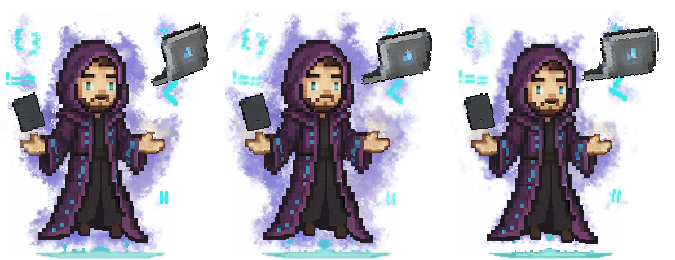
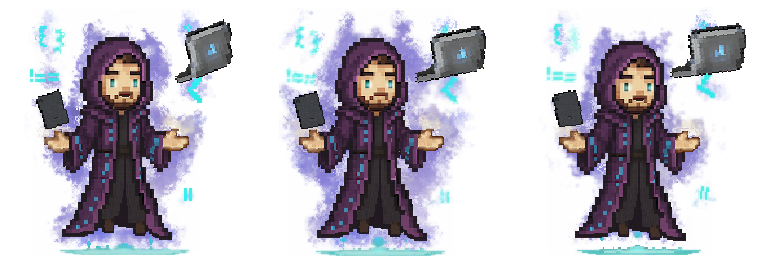
sprite sizes made consistent

diff --git a/src/components/common/PixelHero.jsx b/src/components/common/PixelHero.jsx
@@ -115,11 +115,11 @@ function PixelHero({ setIsFlipped, isFlipped, theme }) {
 
   // Sprite dimensions per level (width is single frame, height is total)
   const spriteSizes = {
-    1: { width: 64, height: 100 },
-    2: { width: 64, height: 100 },
-    3: { width: 80, height: 100 },
-    4: { width: 80, height: 100 },
-    5: { width: 80, height: 100 },
+    1: { width: 100, height: 100 },
+    2: { width: 100, height: 100 },
+    3: { width: 100, height: 100 },
+    4: { width: 100, height: 100 },
+    5: { width: 100, height: 100 },
   };
 
   // Spritesheet mapping for levels 1-5

diff --git a/src/data/resume.js b/src/data/resume.js
@@ -342,6 +342,11 @@ export const resumeData = {
       level: "advanced",
       tags: ["soft-skill-bonus", "stamina"],
     },
+    {
+      name: "If you can read this you certainly zoomed in",
+      level: "advanced",
+      tags: ["soft-skill-bonus", "curiosity"],
+    }
   ],
 
   projects: [
